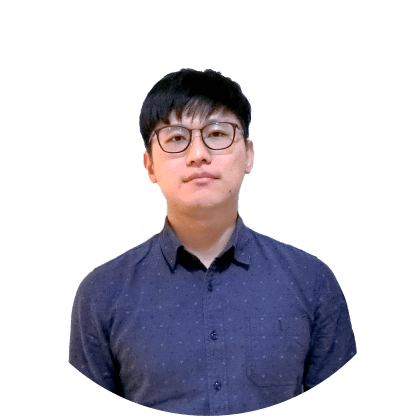
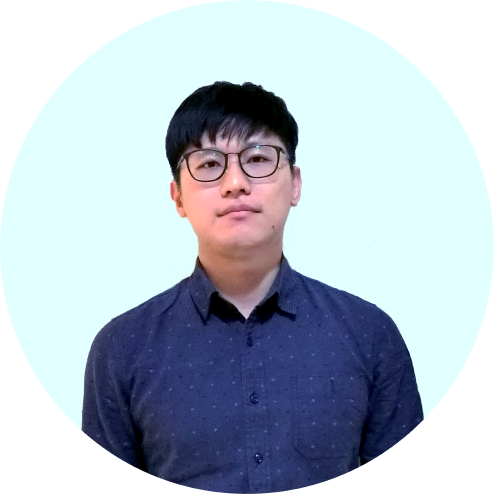
update photos

diff --git a/js/main.min.js b/js/main.min.js
@@ -1,1 +1,1 @@
-$(document).ready(function(){var e,t;new LazyLoad({elements_selector:".lazy"});particlesJS.load("particles-overlay","./js/particle.json",function(){e=new Typed(".typed1",{strings:["為每一個領域的專家提供資料解決方案"],typeSpeed:50,startDelay:1e3}),t=new Typed(".typed2",{strings:["We provide AI solution for experts in all industry"],typeSpeed:30,startDelay:1e3})});var s=!1;$(window).scroll(function(e){s||(s=!0,a(),setTimeout(function(){s=!1},200))});var r=$(window).width(),o=$("header"),i=o.height(),n=$("#logo-word"),a=function(){if(r>767){$(window).scrollTop()>=i?(o.addClass("scrolling"),n.fadeOut()):(o.removeClass("scrolling"),n.fadeIn())}else o.removeClass("scrolling");$("#vision-scroll-target").visible(!0)&&$("#vision-scroll-target .scale-enter-ele").addClass("scale-enter"),$(".animation-wrapper").eq(0).visible(!0)&&$(".animation-wrapper:nth-child(1) .scale-enter-ele").addClass("scale-enter"),$("#product-block").visible(!0)&&($("#product-block .scale-enter-ele").addClass("scale-enter"),$("#product-block .left-enter-ele").addClass("left-enter")),$("#team-block").visible(!0)&&$("#team-block .scale-enter-ele").addClass("scale-enter"),$("#join-block").visible(!0)&&$("#join-block .scale-enter-ele").addClass("scale-enter"),$("footer").visible(!0)&&$("footer .bottom-enter-ele").addClass("bottom-enter")};$("#menu-trigger").click(function(){$(this).toggleClass("open")}),$("#mobile-menu").click(function(){$("#menu-trigger").removeClass("open")}),$(".scroll-link").click(function(e){e.preventDefault();var t=$(this).attr("href"),s=$(t).position().top-64;$(document).scrollTo(s,800)});var l=new Swiper("#main-slider",{speed:1200,autoplay:{delay:5e3},pagination:{el:".swiper-pagination",clickable:!0},navigation:{nextEl:".swiper-button-next",prevEl:".swiper-button-prev"}});l.on("slideChange",function(){console.log(l.realIndex),0==l.realIndex?(e.reset(!0),t.reset(!0),e=new Typed(".typed1",{strings:["為每一個領域的專家提供資料解決方案"],typeSpeed:50,startDelay:1e3}),t=new Typed(".typed2",{strings:["We provide AI solution for experts in all industry"],typeSpeed:30,startDelay:1e3})):($(".typed1, .typed2").empty(),$(".typed-cursor").remove())});var c,d,g,p,m=["../img/svg/stage1.svg","../img/svg/stage2.svg","../img/svg/stage3.svg"],v={curImg:0},u=["<div class='scale-enter-ele scale-enter-fast'>我們致力於打造完善的<br>資料科學應用方案</div>","<div class='stage2 scale-enter-ele scale-enter-fast'>\t\t<div class='mb-2'>讓每個領域的專家<br class='d-none d-md-block'>都能輕鬆運用</div>\t\t<div class='mb-1'><img src='img/svg/s2-1.svg' alt='' />&emsp;數據的力量&emsp;</div>\t\t<div class='mb-1'><img src='img/svg/s2-2.svg' alt='' />&emsp;改善既有效率</div>\t\t<div class='mb-1'><img src='img/svg/s2-3.svg' alt='' />&emsp;挖掘創新價值</div></div>","<div class='scale-enter-ele scale-enter-fast'>以資料為燃料<br>打造下一個改變世界的引擎</div>"],h=TweenMax.to(v,1,{curImg:m.length-1,roundProps:"curImg",immediateRender:!0,ease:Linear.easeNone,onUpdate:function(){c!=v.curImg&&($("#animation img").attr("src",m[v.curImg]),$(".parallax-text").html(u[v.curImg]),c=v.curImg)}}),f=new ScrollMagic.Controller,w=(new ScrollMagic.Scene({triggerElement:"#animation-trigger",duration:1e3,triggerHook:.01}).setTween(h).setPin("#animation").addTo(f),["roger-hover.png","ken-hover.png","demi-hover.png","owl-hover.svg"]);$(".photo-wrapper").mouseenter(function(e){var t=$(this).data("no")-1;p=$(this).find("img").eq(0),d=p.attr("src"),p.attr("src","img/team/"+w[t]),3!=t&&(g=p.attr("srcset"),g=g.replace("@2x","-hover@2x"),g=g.replace("@3x","-hover@3x"),p.attr("srcset",g))}),$(".photo-wrapper").mouseleave(function(e){p.attr("src",d),g=g.replace("-hover@2x","@2x"),g=g.replace("-hover@3x","@3x"),p.attr("srcset",g)});var y={line:"//owlsometech.gogodin-studio.com/img/svg/qrcode.svg",email:"service@owlsome.tech",call_to_action:"Contact Us",button_color:"#55D6D2",position:"right",order:"line,email"},b=document.location.protocol,x=b+"//static.whatshelp.io",k=document.createElement("script");k.type="text/javascript",k.async=!0,k.src=x+"/widget-send-button/js/init.js",k.onload=function(){WhWidgetSendButton.init("whatshelp.io",b,y)};var C=document.getElementsByTagName("script")[0];C.parentNode.insertBefore(k,C)}),function(e){e.fn.visible=function(t){var s=e(this),r=e(window),o=r.scrollTop(),i=o+r.height(),n=s.offset().top,a=n+s.height(),l=!0===t?a:n;return(!0===t?n:a)<=i&&l>=o}}(jQuery);
+$(document).ready(function(){var e,t;new LazyLoad({elements_selector:".lazy"});particlesJS.load("particles-overlay","./js/particle.json",function(){e=new Typed(".typed1",{strings:["為每一個領域的專家提供資料解決方案"],typeSpeed:50,startDelay:1e3}),t=new Typed(".typed2",{strings:["We provide AI solution for experts in all industry"],typeSpeed:30,startDelay:1e3})});var s=!1;$(window).scroll(function(e){s||(s=!0,a(),setTimeout(function(){s=!1},200))});var r=$(window).width(),o=$("header"),n=o.height(),i=$("#logo-word"),a=function(){if(r>767){$(window).scrollTop()>=n?(o.addClass("scrolling"),i.fadeOut()):(o.removeClass("scrolling"),i.fadeIn())}else o.removeClass("scrolling");$("#vision-scroll-target").visible(!0)&&$("#vision-scroll-target .scale-enter-ele").addClass("scale-enter"),$(".animation-wrapper").eq(0).visible(!0)&&$(".animation-wrapper:nth-child(1) .scale-enter-ele").addClass("scale-enter"),$("#product-block").visible(!0)&&($("#product-block .scale-enter-ele").addClass("scale-enter"),$("#product-block .left-enter-ele").addClass("left-enter")),$("#team-block").visible(!0)&&$("#team-block .scale-enter-ele").addClass("scale-enter"),$("#join-block").visible(!0)&&$("#join-block .scale-enter-ele").addClass("scale-enter"),$("footer").visible(!0)&&$("footer .bottom-enter-ele").addClass("bottom-enter")};$("#menu-trigger").click(function(){$(this).toggleClass("open")}),$("#mobile-menu").click(function(){$("#menu-trigger").removeClass("open")}),$(".scroll-link").click(function(e){e.preventDefault();var t=$(this).attr("href"),s=$(t).position().top-64;$(document).scrollTo(s,800)});var l=new Swiper("#main-slider",{speed:1200,autoplay:{delay:5e3},pagination:{el:".swiper-pagination",clickable:!0},navigation:{nextEl:".swiper-button-next",prevEl:".swiper-button-prev"}});l.on("slideChange",function(){console.log(l.realIndex),0==l.realIndex?(e.reset(!0),t.reset(!0),e=new Typed(".typed1",{strings:["為每一個領域的專家提供資料解決方案"],typeSpeed:50,startDelay:1e3}),t=new Typed(".typed2",{strings:["We provide AI solution for experts in all industry"],typeSpeed:30,startDelay:1e3})):($(".typed1, .typed2").empty(),$(".typed-cursor").remove())});var c,d,g,p,m,v=["../img/svg/stage1.svg","../img/svg/stage2.svg","../img/svg/stage3.svg"],u={curImg:0},h=["<div class='scale-enter-ele scale-enter-fast'>我們致力於打造完善的<br>資料科學應用方案</div>","<div class='stage2 scale-enter-ele scale-enter-fast'>\t\t<div class='mb-2'>讓每個領域的專家<br class='d-none d-md-block'>都能輕鬆運用</div>\t\t<div class='mb-1'><img src='img/svg/s2-1.svg' alt='' />&emsp;數據的力量&emsp;</div>\t\t<div class='mb-1'><img src='img/svg/s2-2.svg' alt='' />&emsp;改善既有效率</div>\t\t<div class='mb-1'><img src='img/svg/s2-3.svg' alt='' />&emsp;挖掘創新價值</div></div>","<div class='scale-enter-ele scale-enter-fast'>以資料為燃料<br>打造下一個改變世界的引擎</div>"],f=TweenMax.to(u,1,{curImg:v.length-1,roundProps:"curImg",immediateRender:!0,ease:Linear.easeNone,onUpdate:function(){c!=u.curImg&&($("#animation img").attr("src",v[u.curImg]),$(".parallax-text").html(h[u.curImg]),c=u.curImg)}}),w=new ScrollMagic.Controller,y=(new ScrollMagic.Scene({triggerElement:"#animation-trigger",duration:1e3,triggerHook:.01}).setTween(f).setPin("#animation").addTo(w),["roger-hover@2x.png","ken-hover@2x.png","demi-hover@2x.png","yoge-hover@2x.png","owl-hover@2x.png"]);$(".photo-wrapper").mouseenter(function(e){p=$(this).data("no"),m=$(this).find("img").eq(0),d=m.attr("src"),m.attr("src","img/team/"+y[p]),g=m.attr("srcset"),g=g.replace("@2x","-hover@2x"),g=g.replace("@3x","-hover@3x"),m.attr("srcset",g)}),$(".photo-wrapper").mouseleave(function(e){m.attr("src",d),g=g.replace("-hover@2x","@2x"),g=g.replace("-hover@3x","@3x"),m.attr("srcset",g)});var b={line:"//owlsometech.gogodin-studio.com/img/svg/qrcode.svg",email:"service@owlsome.tech",call_to_action:"Contact Us",button_color:"#55D6D2",position:"right",order:"line,email"},x=document.location.protocol,k=x+"//static.whatshelp.io",C=document.createElement("script");C.type="text/javascript",C.async=!0,C.src=k+"/widget-send-button/js/init.js",C.onload=function(){WhWidgetSendButton.init("whatshelp.io",x,b)};var I=document.getElementsByTagName("script")[0];I.parentNode.insertBefore(C,I)}),function(e){e.fn.visible=function(t){var s=e(this),r=e(window),o=r.scrollTop(),n=o+r.height(),i=s.offset().top,a=i+s.height(),l=!0===t?a:i;return(!0===t?i:a)<=n&&l>=o}}(jQuery);

diff --git a/index.html b/index.html
@@ -189,8 +189,8 @@
 			<div class="container text-center">
 				<div id="our-team" class="block-title scale-enter-ele">Our Team</div>
 				<div class="row no-gutters">
-					<div class="col-6 col-md-3 scale-enter-ele">
-						<div class="photo-wrapper" data-no="1"><img data-src="img/team/roger.png" alt="Roger Chang" class="w-100 lazy" data-srcset="img/team/roger@2x.png 2x, img/team/roger@3x.png 3x"></div>
+					<div class="col-6 col-md-4 scale-enter-ele">
+						<div class="photo-wrapper" data-no="0"><img data-src="img/team/roger@2x.png" alt="Roger Chang" class="w-100 lazy" data-srcset="img/team/roger@2x.png 2x, img/team/roger@3x.png 3x"></div>
 						<div class="mem-name">
 							Roger Chang
 						</div>
@@ -200,8 +200,8 @@
 						</div>
 						<div class="mem-intro"></div>
 					</div>
-					<div class="col-6 col-md-3 scale-enter-ele">
-						<div class="photo-wrapper" data-no="2"><img data-src="img/team/ken.png" alt="Ken Yang" class="w-100 lazy" data-srcset="img/team/ken@2x.png 2x, img/team/ken@3x.png 3x"></div>
+					<div class="col-6 col-md-4 scale-enter-ele">
+						<div class="photo-wrapper" data-no="1"><img data-src="img/team/ken@2x.png" alt="Ken Yang" class="w-100 lazy" data-srcset="img/team/ken@2x.png 2x, img/team/ken@3x.png 3x"></div>
 						<div class="mem-name">
 							Ken Yang
 						</div>
@@ -210,8 +210,8 @@
 						</div>
 						<div class="mem-intro"></div>
 					</div>
-					<div class="col-6 col-md-3 scale-enter-ele">
-						<div class="photo-wrapper" data-no="3"><img data-src="img/team/demi.png" alt="Demi Straughn" class="w-100 lazy" data-srcset="img/team/demi@2x.png 2x, img/team/demi@3x.png 3x"></div>
+					<div class="col-6 col-md-4 scale-enter-ele">
+						<div class="photo-wrapper" data-no="2"><img data-src="img/team/demi@2x.png" alt="Demi Straughn" class="w-100 lazy" data-srcset="img/team/demi@2x.png 2x, img/team/demi@3x.png 3x"></div>
 						<div class="mem-name">
 							Demi Straughn
 						</div>
@@ -220,8 +220,18 @@
 						</div>
 						<div class="mem-intro"></div>
 					</div>
-					<div class="col-6 col-md-3 scale-enter-ele">
-						<div class="photo-wrapper" data-no="4"><img data-src="img/team/owl.svg" alt="Owlsome" class="w-100 lazy"></div>
+					<div class="col-6 col-md-4 scale-enter-ele">
+						<div class="photo-wrapper" data-no="3"><img data-src="img/team/yoge@2x.png" alt="Yoge" class="w-100 lazy" data-srcset="img/team/yoge@2x.png 2x, img/team/yoge@3x.png 3x"></div>
+						<div class="mem-name">
+							Yoge
+						</div>
+						<div class="mem-title">
+							Backend Developer
+						</div>
+						<div class="mem-intro"></div>
+					</div>
+					<div class="col-6 col-md-4 scale-enter-ele">
+						<div class="photo-wrapper" data-no="4"><img data-src="img/team/owl@2x.png" alt="Owlsome" class="w-100 lazy" data-srcset="img/team/owl@2x.png 2x, img/team/owl@3x.png 3x"></div>
 						<div class="mem-name">
 							Owlsome
 						</div>

diff --git a/js/main.js b/js/main.js
@@ -218,19 +218,17 @@ $(document).ready(function() {
 	// our team hover change pics
 	var originalSrc, srcset, no, $teamPic;
 	var hoverPhoto = [
-		'roger-hover.png',
-		'ken-hover.png',
-		'demi-hover.png',
-		'owl-hover.svg'
+		'roger-hover@2x.png',
+		'ken-hover@2x.png',
+		'demi-hover@2x.png',
+		'yoge-hover@2x.png',
+		'owl-hover@2x.png'
 	];
 	$('.photo-wrapper').mouseenter(function(event) {
-		var no = $(this).data('no') - 1;
+		no = $(this).data('no');
 		$teamPic = $(this).find('img').eq(0);
 		originalSrc = $teamPic.attr('src');
 		$teamPic.attr('src', 'img/team/' + hoverPhoto[no]);
-		if (no == 3) { // svg 不需 srcset
-			return;
-		}
 		srcset = $teamPic.attr('srcset');
 		srcset = srcset.replace('@2x', '-hover@2x');
 		srcset = srcset.replace('@3x', '-hover@3x');
@@ -238,9 +236,6 @@ $(document).ready(function() {
 	});
 	$('.photo-wrapper').mouseleave(function(event) {
 		$teamPic.attr('src', originalSrc);
-		if (no == 3) { // svg 不需 srcset
-			return;
-		}
 		srcset = srcset.replace('-hover@2x', '@2x');
 		srcset = srcset.replace('-hover@3x', '@3x');
 		$teamPic.attr('srcset', srcset);
